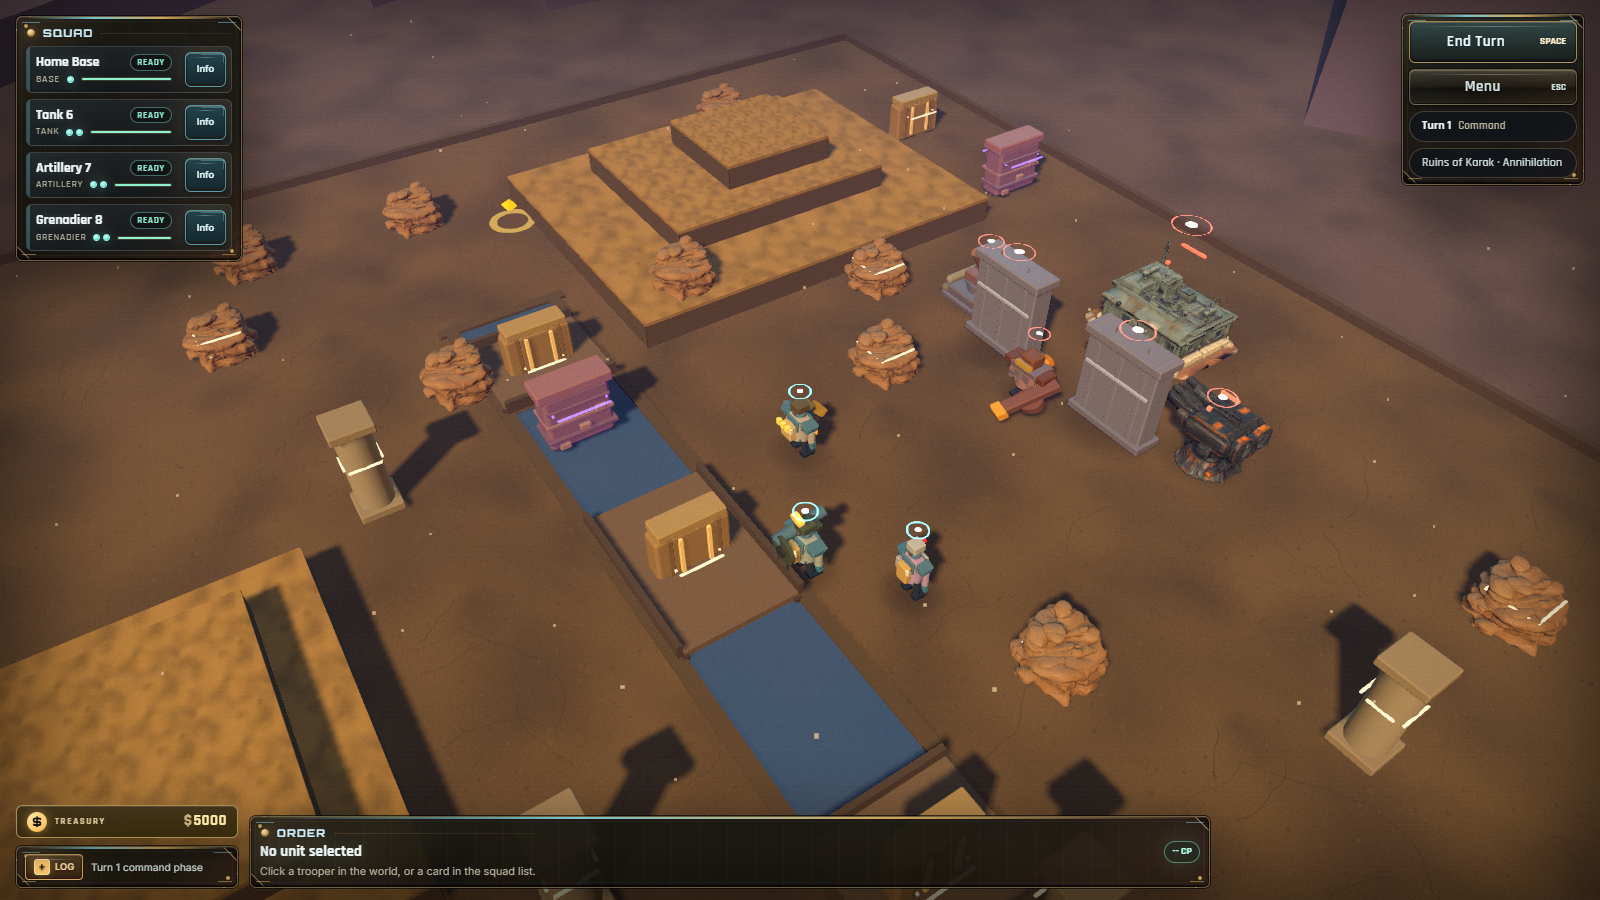
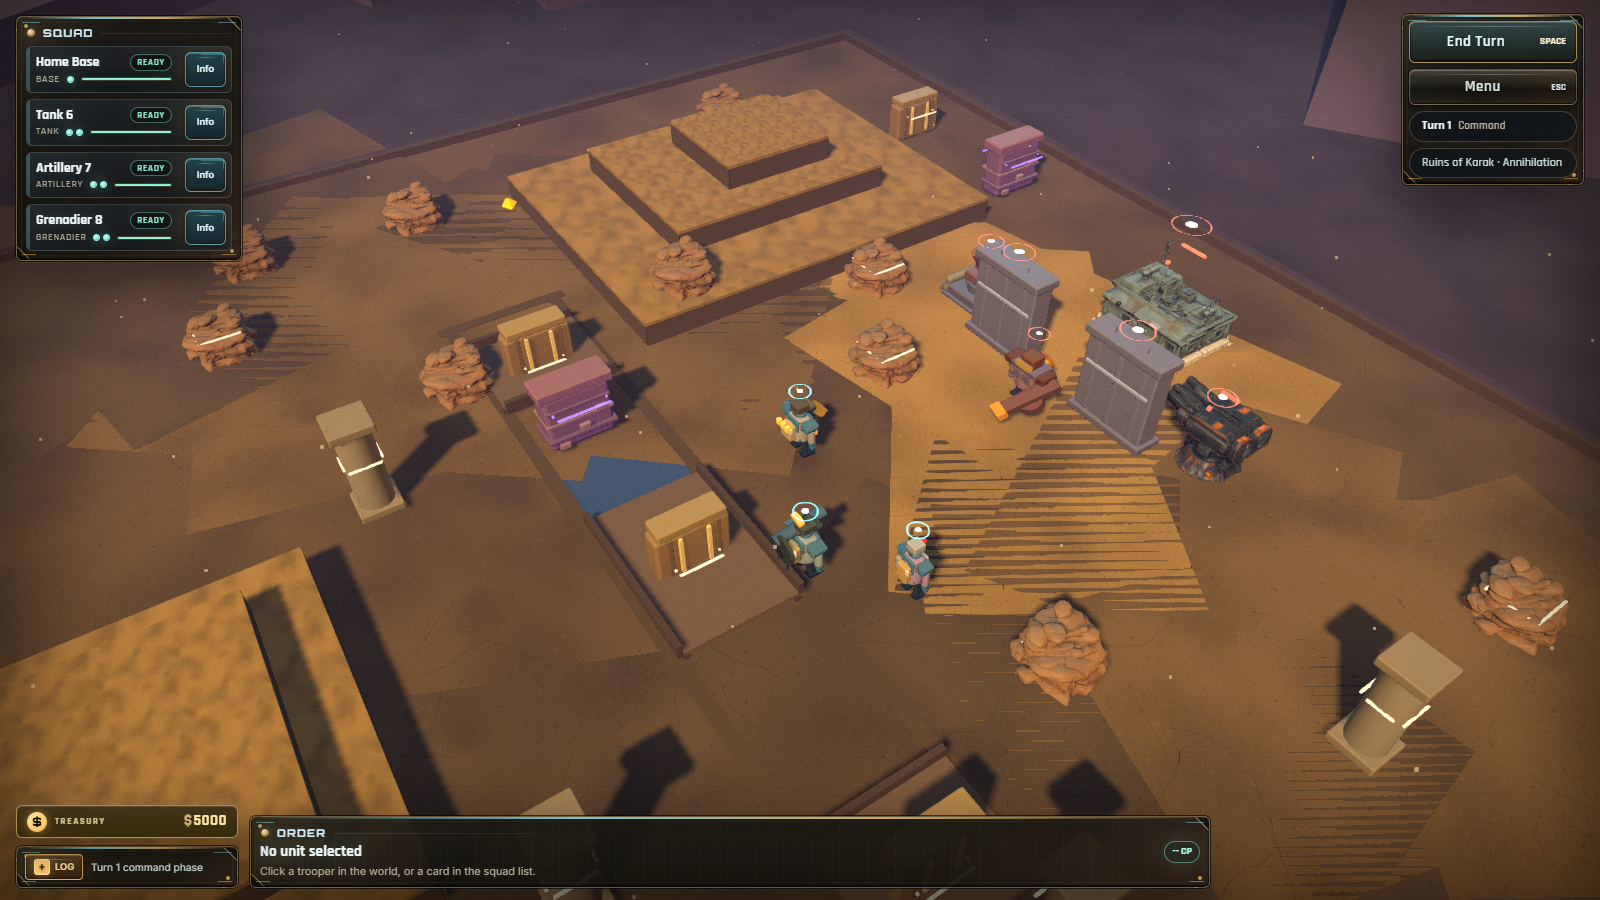
The board read: surface plates, world-space UVs, and a lit stage on a dark surround
Direction A, first pass. A tactics battlefield has to be composed of readable
things the way an Into the Breach board is; a single continuous plane reads as
empty no matter what is painted on it.

- SURFACE PLATES. Three merged layers of broad, irregular ground patches at
  distinct VALUES (a hue-only difference vanishes in a greyscale pass, which is how
  the eye reads a board at a glance). Four overlapping rounded slabs per patch, so
  the union outline is lumpy rather than a soft-cornered rectangle that would read
  as something painted on. Merged per variant: the whole layer is three draw calls.
  They are cosmetic and deliberately create no affordance -- 1cm thick, topping out
  at ground level, so no patch edge can be mistaken for the real terrain step a
  TerrainBlock is. Movement stays continuous; nothing here is collided with.
- WORLD-SPACE UVs. Each slab's own UVs run 0..1 across a ~7-unit patch, so with the
  floor's repeat on top the plates tiled about eleven times finer than the ground
  they sat on and aliased into diagonal moire hatching. Plate UVs are rewritten from
  world position against one shared GROUND_TILE constant, so plate, floor, mesa cap
  and outer plain all tile in lockstep and the texture reads as one surface.
- LIT STAGE. The outer plain sat at 86% of the arena's own value, so the play space
  had no edge and the eye had nowhere to land. It drops to a third and cools toward
[…]

diff --git a/game/src/render/worldRenderer.ts b/game/src/render/worldRenderer.ts
@@ -1,5 +1,6 @@
 import * as THREE from "three";
 import { RoundedBoxGeometry } from "three/examples/jsm/geometries/RoundedBoxGeometry.js";
+import { mergeGeometries } from "three/examples/jsm/utils/BufferGeometryUtils.js";
 import { ParticleShape, Particles } from "./particles";
 import { hasMotionBank, sampleMotion } from "./infantryMotion";
 import { clamp, clamp01, dist, pointToSegmentDistance, segmentProgress, type Vec2 } from "../core/math";
@@ -849,8 +850,8 @@ export class WorldRenderer {
     // One tile per ~11 world units. The tile is seamless now, so it can be small enough for the
     // detail to survive at the tactical camera; the old 19-unit tile existed only to push a visible
     // seam out of frame, and at that scale the ground had no readable surface left at all.
-    const tileX = Math.max(2, width / 11);
-    const tileZ = Math.max(2, depth / 11);
+    const tileX = Math.max(2, width / GROUND_TILE);
+    const tileZ = Math.max(2, depth / GROUND_TILE);
     surface.map.repeat.set(tileX, tileZ);
     surface.normalMap.repeat.set(tileX, tileZ);
     // MACRO VARIATION. The texture tiles every ~11 units, so its variation averages out across a
@@ -878,6 +879,7 @@ export class WorldRenderer {
     floor.receiveShadow = true;
     this.sceneryRoot.add(floor);
 
+    this.sceneryRoot.add(makeGroundPlates(theme, width, depth, surface));
     this.sceneryRoot.add(makeTerrainBlocks(theme.ground, theme.groundAccent, surface));
     const water = makeWaterAndBridges(theme, surface);
     this.waterRipple = (water.userData.ripple as THREE.Texture | undefined) ?? undefined;
@@ -886,6 +888,25 @@ export class WorldRenderer {
 
     // No ground grid: movement is continuous, so a grid describes no rule the player can use and
     // reads as an unfinished prototype. Range rings and move previews carry that information.
+
+    // BOARD EDGE. A chamfered dark lip running the arena's perimeter, sitting proud of the floor and
+    // dropping below it. It is what turns "a plane that happens to stop" into a board with a rim,
+    // and the shadow it casts inward is the line that separates the lit stage from the dark ground
+    // around it. Still the arena-bounds affordance it always was, just legible now.
+    const rimColor = new THREE.Color(theme.ground).multiplyScalar(0.3).lerp(new THREE.Color(theme.fog), 0.12);
+    const rimMat = new THREE.MeshStandardMaterial({ color: rimColor, roughness: 0.94, metalness: 0.06 });
+    for (const [x, z, sx, sz] of [
+      [0, ARENA_BOUNDS.minZ - 0.42, width + 1.7, 0.86],
+      [0, ARENA_BOUNDS.maxZ + 0.42, width + 1.7, 0.86],
+      [ARENA_BOUNDS.minX - 0.42, 0, 0.86, depth + 1.7],
+      [ARENA_BOUNDS.maxX + 0.42, 0, 0.86, depth + 1.7],
+    ] as const) {
+      const lip = new THREE.Mesh(new RoundedBoxGeometry(sx, 0.62, sz, 1, 0.16), rimMat);
+      lip.position.set(x, -0.18, z);
+      lip.receiveShadow = true;
+      lip.castShadow = true;
+      this.sceneryRoot.add(lip);
+    }
 
     const railColor = new THREE.Color(theme.ground).multiplyScalar(0.55);
     const railMat = new THREE.MeshStandardMaterial({ color: railColor, roughness: 0.9, metalness: 0.05 });
@@ -4378,13 +4399,18 @@ function makeSurroundings(theme: MapTheme, width: number, depth: number, surface
 
   // Outer plain: sits a hair below the arena slab so the slab's own edge still reads as a lip
   // rather than z-fighting with it. Tinted toward fog so it recedes instead of competing.
-  const plainColor = ground.clone().lerp(fog, 0.16).multiplyScalar(0.86);
+  // The outer plain used to sit at 86% of the arena's own value, so the play space had no edge:
+  // the battlefield and everything around it were the same field of colour and the eye had nowhere
+  // to land. Into the Breach's strongest compositional move is a BRIGHT BOARD ON A DARK SURROUND,
+  // and it costs one multiply. The plain drops to a third of the arena's value and cools toward
+  // fog, so the arena reads as a lit stage without a single extra draw call.
+  const plainColor = ground.clone().lerp(fog, 0.3).multiplyScalar(0.34);
   // Carries the SAME ground texture as the arena floor (tiled to match world scale), so the
   // battlefield reads as a marked-out part of a landscape rather than a lit diorama sitting on a
   // separate, differently-coloured table.
   const plainMap = surface.map.clone();
   plainMap.needsUpdate = true;
-  plainMap.repeat.set((width * 9) / 11, (depth * 9) / 11);
+  plainMap.repeat.set((width * 9) / GROUND_TILE, (depth * 9) / GROUND_TILE);
   const plain = new THREE.Mesh(
     new THREE.PlaneGeometry(width * 9, depth * 9),
     new THREE.MeshStandardMaterial({ map: plainMap, color: plainColor, roughness: 1, metalness: 0 }),
@@ -4427,6 +4453,120 @@ function makeSurroundings(theme: MapTheme, width: number, depth: number, surface
       bluff.rotation.y = rand() * Math.PI;
       group.add(bluff);
     }
+  }
+  return group;
+}
+
+
+/**
+ * SURFACE PLATES — the board read.
+ *
+ * A tactics battlefield has to be *composed of readable things*, the way an Into the Breach board
+ * is: patches of ground that differ in value and hue so the eye has something to hold on to. A
+ * single continuous plane, however well textured, reads as empty no matter what is painted on it.
+ *
+ * These are cosmetic only and deliberately DO NOT create affordances: each plate is a flat patch
+ * whose top sits fractionally BELOW standing height, so no plate edge can be mistaken for a step
+ * the way a real terrain block (>TERRAIN_STEP) is. Movement stays continuous; nothing here is
+ * collided with, targeted or walked around.
+ *
+ * All plates of a variant merge into ONE geometry, so the whole layer is three draw calls.
+ */
+/** One ground-texture tile per this many world units. Floor, mesa caps and plates all use it. */
+const GROUND_TILE = 11;
+const PLATE_THICKNESS = 0.01;
+
+/**
+ * Replace a (roughly flat, ground-lying) geometry's UVs with world-space ones at `tile` units per
+ * texture repeat, so it tiles in lockstep with everything else on the ground.
+ */
+function rewriteWorldUvs(geometry: THREE.BufferGeometry, tile: number): void {
+  const position = geometry.getAttribute("position");
+  const uv = geometry.getAttribute("uv");
+  if (!position || !uv) return;
+  for (let i = 0; i < position.count; i += 1) {
+    uv.setXY(i, position.getX(i) / tile, position.getZ(i) / tile);
+  }
+  uv.needsUpdate = true;
+}
+
+function makeGroundPlates(theme: MapTheme, width: number, depth: number, surface: GroundSurface): THREE.Group {
+  const group = new THREE.Group();
+  group.name = "plates";
+  let seed = 0x51ed5eed ^ (theme.ground >>> 0);
+  const rand = (): number => {
+    seed = (seed * 1664525 + 1013904223) >>> 0;
+    return seed / 0xffffffff;
+  };
+  const ground = new THREE.Color(theme.ground);
+  const accent = new THREE.Color(theme.groundAccent);
+  // Three surface variants spread around the map's own two authored tones: a darker damp/shadowed
+  // patch, a paler dried/dusty one, and a mid gravel bed. Value spread is the point — a hue-only
+  // difference vanishes in a greyscale pass, which is how the eye reads a board at a glance.
+  const variants = [
+    { color: ground.clone().lerp(new THREE.Color(0x0a0d10), 0.17), roughness: 0.98 },
+    { color: ground.clone().lerp(accent, 0.55).multiplyScalar(1.13), roughness: 0.93 },
+    { color: ground.clone().lerp(accent, 0.22).multiplyScalar(0.82), roughness: 0.96 },
+  ];
+  // The plate layer addresses the ground textures at repeat 1 and gets its tiling from the
+  // world-space UVs above, so one clone pair serves all three variants.
+  const plateMap = surface.map.clone();
+  plateMap.needsUpdate = true;
+  plateMap.repeat.set(1, 1);
+  const plateNormal = surface.normalMap.clone();
+  plateNormal.needsUpdate = true;
+  plateNormal.repeat.set(1, 1);
+  const area = width * depth;
+  const perVariant = Math.max(5, Math.round(area / 620));
+  for (const variant of variants) {
+    const parts: THREE.BufferGeometry[] = [];
+    for (let i = 0; i < perVariant; i += 1) {
+      // Two overlapping rounded slabs per patch, so the outline is irregular rather than a rectangle.
+      const cx = (rand() - 0.5) * width * 0.92;
+      const cz = (rand() - 0.5) * depth * 0.92;
+      const spin = rand() * Math.PI;
+      // Four overlapping rounded slabs per patch at scattered angles. Two gave a rectangle with
+      // soft corners, which reads as something PAINTED on the ground; four at spread angles give a
+      // lumpy union outline that reads as the ground itself changing.
+      for (let k = 0; k < 4; k += 1) {
+        const w = 5 + rand() * 11;
+        const d = 4 + rand() * 9;
+        // 2cm thick and topping out exactly at ground level. A patch of ground must never grow a
+        // visible SIDE: at this camera a few centimetres of lit edge reads as a terrace, and a
+        // terrace the player can walk straight over is a lie about the terrain.
+        const geo = new RoundedBoxGeometry(w, PLATE_THICKNESS, d, 1, Math.min(1.4, Math.min(w, d) * 0.3));
+        const m = new THREE.Matrix4()
+          .makeRotationY(spin + (rand() - 0.5) * 1.6)
+          .setPosition(cx + (rand() - 0.5) * 7, 0, cz + (rand() - 0.5) * 7);
+        geo.applyMatrix4(m);
+        parts.push(geo);
+      }
+    }
+    const merged = mergeGeometries(parts, false);
+    for (const geo of parts) geo.dispose();
+    if (!merged) continue;
+    // WORLD-SPACE UVs. Each slab's own UVs run 0..1 across a ~7-unit patch, so with the floor's
+    // repeat (one tile per 11 world units) applied on top, the plates tiled roughly eleven times
+    // finer than the ground they sit on -- which aliased into diagonal moiré hatching at tactical
+    // distance. Rewriting the UVs from world position makes plate and floor tile identically, so
+    // the texture reads as one continuous surface with the colour changing on top of it.
+    rewriteWorldUvs(merged, GROUND_TILE);
+    const mesh = new THREE.Mesh(
+      merged,
+      new THREE.MeshStandardMaterial({
+        map: plateMap,
+        normalMap: plateNormal,
+        normalScale: new THREE.Vector2(0.45, 0.45),
+        color: variant.color,
+        roughness: variant.roughness,
+        metalness: 0.02,
+        polygonOffset: true,
+        polygonOffsetFactor: -2,
+        polygonOffsetUnits: -2,
+      })
+    );
+    mesh.receiveShadow = true;
+    group.add(mesh);
   }
   return group;
 }
